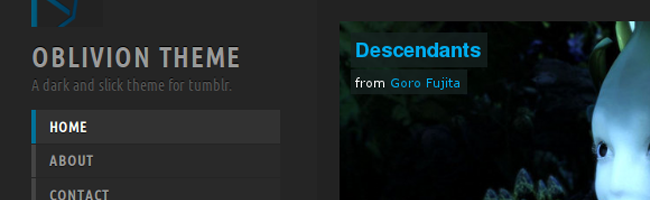
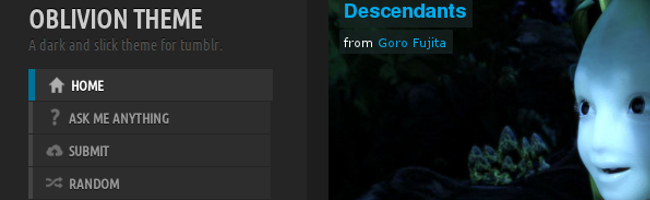
...

diff --git a/styles/global.css b/styles/global.css
@@ -13,9 +13,9 @@ body {
 }
 .main-wrap {
 	height: auto;
-	margin: 70px 20px 25px 20px;
+	margin: 0 20px 0 20px;
 	word-wrap: break-word;
-	padding-left: 250px;
+	padding: 70px 0 25px 250px;
 	position: relative;
 }
 #top {
@@ -1447,7 +1447,7 @@ h6 {
 }
 .blog-post-text img,
 .photo {
-	background: #1d1d1d url('/images/ajax-loader-image.gif') no-repeat 50% 50%;
+	background: #1d1d1d url('/images/bg-checker-dark') repeat 0 0;
 	box-shadow: 2px 2px 8px rgba(0,0,0,.7);
 	-moz-box-shadow: 2px 2px 8px rgba(0,0,0,.7);
 	-o-box-shadow: 2px 2px 8px rgba(0,0,0,.7);
@@ -1704,14 +1704,9 @@ input.short-url:focus {
 	color: #005977;
 	text-shadow: 0 -1px 0 rgba(0,0,0,.3);
 }
-
 .main-footer-content {
 	float: left;
 	width: 500px;
-}
-.twitter-follow-button {
-	float: right;
-	max-width: 180px !important;
 }
 /* ==============================================================================
 	END MAIN FOOTER
@@ -1765,7 +1760,8 @@ input.short-url:focus {
 	 * Main wrap
 	 * --------------------- */
 	.main-wrap {
-		margin: 30px 5px 25px 5px;
+		margin: 0 5px 0 5px;
+		padding: 30px 0 25px 250;
 	}
 	
 	/* ------------------------
@@ -1876,9 +1872,9 @@ input.short-url:focus {
 	 * Main wrap
 	 * --------------------- */
 	.main-wrap {
-		margin: 0 0 10px 0;
+		margin: 0 0;
 		overflow: hidden;
-		padding: 0;
+		padding: 0 0 10px 0;
 	}
 	
 	/* ------------------------
